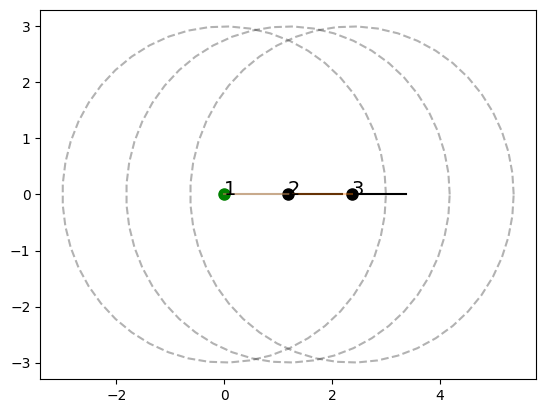
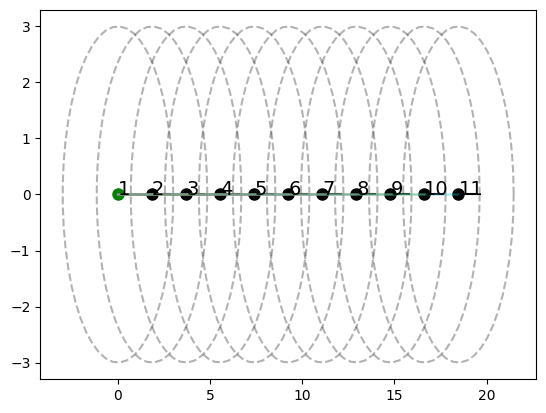
more proof writing

diff --git a/deployment/exploration_strategies/line_explore.py b/deployment/exploration_strategies/line_explore.py
@@ -13,10 +13,10 @@ class LineExploreKind(Enum):
       TWO_DIM_GLOBAL = 3,
 
 class LineExplore(ExplorationStrategy):
-  def __init__(self, K_o=1, force_threshold=0.01, RSSI_threshold=0.5, kind=LineExploreKind.ONE_DIM_GLOBAL):
+  def __init__(self, RSSI_threshold, K_o=1, force_threshold=0.01, kind=LineExploreKind.ONE_DIM_GLOBAL):
+    self.RSSI_threshold = RSSI_threshold
     self.K_o = K_o
     self.force_threshold = force_threshold
-    self.RSSI_threshold = RSSI_threshold
     self.kind = kind
 
   def prepare_exploration(self, target):
@@ -24,10 +24,10 @@ class LineExplore(ExplorationStrategy):
 
   def get_exploration_velocity(self, MIN, beacons, ENV):
     F, F_n, F_o = None, None, None
+    xi_is = np.array([MIN.get_xi_to_other_from_model(b) for b in beacons])
 
     if self.kind != LineExploreKind.TWO_DIM_GLOBAL:
       """ 1D """
-      xi_is = np.array([MIN.get_xi_to_other_from_model(b) for b in beacons])
       x_is = np.array([b.pos[0] for b in beacons])
       k_is, a_is = None, None
 
@@ -66,24 +66,40 @@ class LineExplore(ExplorationStrategy):
       elif self.kind == LineExploreKind.ONE_DIM_LOCAL:
         neigh_indices, = np.where(xi_is > self.RSSI_threshold)
         if len(neigh_indices) == 0:
-            print("STOPPED due to no neighs")
+            print(xi_is, self.RSSI_threshold)
+            print(f"{MIN.ID} STOPPED due to no neighs")
             raise AtLandingConditionException
         
         x_is = x_is[neigh_indices]
         xi_is = xi_is[neigh_indices]
 
+        m = np.argmax(x_is)
+
         k_is = np.ones(x_is.shape)
         a_is = 1.1*np.ones(x_is.shape)
 
-        m = np.argmax(x_is)
         a_is[m] = (1/k_is[m])*np.sum(k_is) + 1
-
 
 
         """ Leads to equally spaced drones """
         #k_is = np.zeros(x_is.shape)
         #k_is[j] = 2*1
         #a_is[j] = 1
+
+        """ Using qualitative info. about xi function vol. 1"""
+        a_is = np.ones(x_is.shape)
+        a_is[m] = 1.1
+        k_is = np.ones(x_is.shape)
+
+        delta_is = np.array([b.get_xi_max_decrease() for b in beacons[neigh_indices]])
+
+        k_is[m] = (1/(a_is[m]-1))*np.sum(np.delete(k_is*(1+a_is*delta_is), m)) + 0.1
+        
+        """ Using qualitative info. about xi function vol. 2"""
+        k_is = np.ones(x_is.shape)
+        a_is = np.ones(x_is.shape)
+
+        a_is[m] = (1/k_is[m])*np.sum(np.delete(k_is*(1+a_is*delta_is), m)) + 1
 
         assert (k_is[m]*a_is[m] > np.sum(k_is) or np.isclose(k_is[m]*a_is[m], np.sum(k_is))) and a_is[m] >= 0,\
           f"""
@@ -93,7 +109,7 @@ class LineExplore(ExplorationStrategy):
 
       F_n = -np.sum(k_is*(MIN.pos[0] - a_is*(x_is + xi_is)))
       F_o = 0*gof(self.K_o, MIN, ENV)[0]
-      F = np.array([F_n + F_o, 0])
+      F = self.__clamp(np.array([F_n + F_o, 0]), 10)
       
     else:
       """ 2D """
@@ -106,6 +122,7 @@ class LineExplore(ExplorationStrategy):
       F = F_n + F_o
           
     if np.linalg.norm(F) < self.force_threshold:
+      print(xi_is, self.RSSI_threshold)
       raise AtLandingConditionException
     return F
 

diff --git a/main.py b/main.py
@@ -49,7 +49,7 @@ if __name__ == "__main__":
 
   max_range = 3
 
-  N_mins = 2
+  N_mins = 10
   dt = 10e-4
 
   scs = SCS(max_range)
@@ -73,19 +73,20 @@ if __name__ == "__main__":
   """
   """ Line exploration """
 
-  RSSI_threshold = 4.9
-
   mins = [
     Min(
       max_range,
       DeploymentFSM(
         NoFollow(),
         LineExplore(
-          kind=LineExploreKind.ONE_DIM_LOCAL,
+          RSSI_threshold=0.5,
           K_o=0.01,
-          RSSI_threshold=RSSI_threshold
+          kind=LineExploreKind.ONE_DIM_LOCAL,
         )
-      )
+      ),
+      xi_max=3,
+      d_perf=1,
+      d_none=3
     ) for _ in range(N_mins)
   ]
 

diff --git a/beacons/beacon.py b/beacons/beacon.py
@@ -21,6 +21,7 @@ class Beacon():
     self._d_none = d_none
     self._omega = np.pi/(self._d_none - self._d_perf)
     self._phi = -np.pi*self._d_perf/(self._d_none - self._d_perf)
+    self._xi_max_decrease = (xi_max/2)*self._omega
   
   def insert_into_environment(self, env):
     self.pos = env.entrance_point
@@ -42,6 +43,9 @@ class Beacon():
     if d > self._d_none:
       return 0
     return (self._xi_max/2)*(1+np.cos(self._omega*d + self._phi))
+
+  def get_xi_max_decrease(self):
+    return self._xi_max_decrease
 
 
   def get_vec_to_other(self, other):

diff --git a/beacons/SCS/scs.py b/beacons/SCS/scs.py
@@ -3,6 +3,6 @@ from beacons.SCS.path_tree import PathTree
 
 class SCS(Beacon):
 
-    def __init__(self, range, xi_max=5, d_perf=1, d_none=3, pos=None,):
+    def __init__(self, range, xi_max=5, d_perf=1, d_none=3, pos=None):
         super().__init__(range, xi_max, d_perf, d_none, pos)
         self.path_tree = PathTree(self)

diff --git a/PDFs & notes/line_deploy_proof.md b/PDFs & notes/line_deploy_proof.md
@@ -131,7 +131,8 @@ In order for our statement to be true we must have:
 $$
 \begin{aligned}
   \kappa_{m}\alpha_{m}\gamma_{m} - \sum_{i\in\mathcal{N}(n+1)}\kappa_{i}\gamma_{i} \geq 0 & \iff \kappa_{m}\alpha_{m}\gamma_{m} - \kappa_{m}\gamma_{m} - \sum_{i\in\mathcal{N}(n+1)\setminus\{m\}}\kappa_{i}\gamma_{i} \geq 0\\
-  & \iff \kappa_{m}\gamma_{m}(\alpha_{m} - 1) - \sum_{i\in\mathcal{N}(n+1)\setminus\{m\}}\kappa_{i}\gamma_{i} \geq 0
+  & \iff \kappa_{m}\gamma_{m}(\alpha_{m} - 1) - \sum_{i\in\mathcal{N}(n+1)\setminus\{m\}}\kappa_{i}\gamma_{i} \geq 0\\
+  & \iff \kappa_{m}\gamma_{m}(\alpha_{m} - 1) \geq \sum_{i\in\mathcal{N}(n+1)\setminus\{m\}}\kappa_{i}\gamma_{i}
 \end{aligned}
 $$
 
@@ -146,12 +147,14 @@ $$
 \end{aligned}
 $$
 
-Choosing $\alpha_{m} > 1$ and substituting yields:
+Choosing $\alpha_{m} > 1$ and using the statements above we get:
 
 $$
-\begin{aligned}
-  \kappa_{m}\gamma_{m}(\alpha_{m} - 1) - \sum_{i\in\mathcal{N}(n+1)\setminus\{m\}}\kappa_{i}\gamma_{i} &\geq \kappa_{m}(\alpha_{m} - 1) - \sum_{i\in\mathcal{N}(n+1)\setminus\{m\}}\kappa_{i}(1 + \alpha_{i}\delta_{i}) \geq 0
-\end{aligned}
+\kappa_{m}\gamma_{m}(\alpha_{m} - 1) \geq \kappa_{m}(\alpha_{m} - 1),\quad \sum_{i\in\mathcal{N}(n+1)\setminus\{m\}}\kappa_{i}\gamma_{i} \leq \sum_{i\in\mathcal{N}(n+1)\setminus\{m\}}\kappa_{i}(1 + \alpha_{i}\delta_{i})
+$$
+
+$$
+\kappa_{m}(\alpha_{m} - 1) \geq \sum_{i\in\mathcal{N}(n+1)\setminus\{m\}}\kappa_{i}(1 + \alpha_{i}\delta_{i}) \implies \kappa_{m}\gamma_{m}(\alpha_{m} - 1) \geq \sum_{i\in\mathcal{N}(n+1)\setminus\{m\}}\kappa_{i}\gamma_{i}
 $$
 
 Thus we have:
@@ -159,7 +162,7 @@ Thus we have:
 $$
 \begin{aligned}
   x_{n+1} = x_{n+1}^{*} > \max_{i\in\mathcal{N}(n+1)}x_{i}^{*} = x_{m} & \iff x_{m}\Bigg(\kappa_{m}\alpha_{m}\gamma_{m} - \sum_{i\in\mathcal{N}(n+1)}\kappa_{i}\gamma_{i}\Bigg) + \sum_{i\in\mathcal{N}(n+1)\setminus\{m\}}\kappa_{i}\alpha_{i}x_{i}\gamma_{i} + \sum_{i\in\mathcal{N}(n+1)}\kappa_{i}\alpha_{i}\xi_{n+1, i}\gamma_{i} > 0\\
-  & \iff \exist \; i\in\mathcal{N}(n+1) \text{ s.t. } \kappa_{i}, \alpha_{i} > 0,\quad \alpha_{m} > 1,\quad \kappa_{m}(\alpha_{m} - 1) \geq \sum_{i\in\mathcal{N}(n+1)\setminus\{m\}}\kappa_{i}(1 + \alpha_{i}\delta_{i}) \geq 0
+  & \iff \exist \; i\in\mathcal{N}(n+1) \text{ s.t. } \kappa_{i}, \alpha_{i} > 0,\quad \alpha_{m} > 1,\quad \kappa_{m}(\alpha_{m} - 1) \geq \sum_{i\in\mathcal{N}(n+1)\setminus\{m\}}\kappa_{i}(1 + \alpha_{i}\delta_{i})
 \end{aligned}
 $$
 
@@ -169,12 +172,78 @@ $$
 Assuming we know $\delta_{i} \; \forall \; i\in\mathcal{N}(n+1)$ such that:
 
 $$
--\delta_{i} \leq \frac{\partial}{\partial d_{n+1, i}} f(d_{n+1, i}, \dots) \leq 0 \; \forall \; i\in\mathcal{N}(n+1)
+-\delta_{i} \leq \frac{\partial}{\partial d_{n+1, i}} f(d_{n+1, i}, \dots) \leq 0 \; \forall \; i\in\mathcal{N}(n+1),
 $$
 
-We can choose $\kappa_{i}$ and $\alpha_{i}$ such that:
+meaning we know a lower bound on the decay rate of the RSSI.
+
+Then, if we choose $\kappa_{i}$ and $\alpha_{i}$ such that:
 
 $$
-\exist \; i\in\mathcal{N}(n+1) \text{ s.t. } \kappa_{i}, \alpha_{i} > 0,\quad \alpha_{m} > 1,\quad \kappa_{m}(\alpha_{m} - 1) \geq \sum_{i\in\mathcal{N}(n+1)\setminus\{m\}}\kappa_{i}(1 + \alpha_{i}\delta_{i}) \geq 0,
+\exist \; i\in\mathcal{N}(n+1) \text{ s.t. } \kappa_{i}, \alpha_{i} > 0,\quad \alpha_{m} > 1,\quad \kappa_{m}(\alpha_{m} - 1) \geq \sum_{i\in\mathcal{N}(n+1)\setminus\{m\}}\kappa_{i}(1 + \alpha_{i}\delta_{i}),
 $$
-where $m = \argmax_{i\in\mathcal{N}(n+1)}x_{i}$. $\nu_{n+1}$ is then guaranteed to move beyond it's neighbors.
+where $m = \argmax_{i\in\mathcal{N}(n+1)}x_{i}$, the drone $\nu_{n+1}$ is guaranteed to move beyond it's neighbors.
+
+> ### Conditions for moving beyond neighbors
+> 1. $\kappa_{i} \geq 0$
+> 
+> 2. $\alpha_{i} \geq 0$
+> 
+> 3. $\exist \; i\in\mathcal{N}(n+1) \text{ s.t. } \kappa_{i}, \alpha_{i} > 0$
+>
+> $m = \argmax_{i\in\mathcal{N}(n+1)}x_{i}$
+>
+> 4. $\alpha_{m} > 1$
+>
+> 5. $\kappa_{m}(\alpha_{m} - 1) \geq \sum_{i\in\mathcal{N}(n+1)\setminus\{m\}}\kappa_{i}(1 + \alpha_{i}\delta_{i})$
+
+# Choosing gains
+Assuming we have a already deployed set of drones $\nu_{1}, \nu_{2} \dots \nu_{n}$ such that $x_{1} < x_{2} < \dots < x_{n}$.
+
+We know that for any neighbor set for drone $\nu_{n+1}$, $\mathcal{N}(n+1)$, it will be one the form:
+$$
+\mathcal{N}(n+1) = \{s, s+1, \dots s + |\mathcal{N}(n+1)| - 1\},
+$$
+
+where $1\leq s \leq n$. Furthermore we know that $m = \max \mathcal{N}(n+1) = s + |\mathcal{N}(n+1)| - 1$.
+
+Choosing $\alpha_{i} = 2 \; \forall \; i \in\mathcal{N}(n+1)$ satisfies conditions 2 and 4. We must then choose $\kappa_{i}$s such that conditions 1, 3 and 5 are satisfied. From condition 5 we have:
+
+$$
+\begin{aligned}
+\kappa_{m}(2 - 1) &\geq \sum_{i\in\mathcal{N}(n+1)\setminus\{m\}}\kappa_{i}(1 + 2\delta_{i}) = \sum_{i=s}^{s + |\mathcal{N}(n+1)| - 2}\kappa_{i}(1 + 2\delta_{i})\\
+\kappa_{s + |\mathcal{N}(n+1)| - 1} &\geq \sum_{i=s}^{s + |\mathcal{N}(n+1)| - 2}\kappa_{i}(1 + 2\delta_{i})
+\end{aligned}
+$$
+
+Assuming $\delta_{i} = \delta \; \forall \; 1 \leq i \leq n$ we get:
+
+$$
+\begin{aligned}
+\kappa_{s + |\mathcal{N}(n+1)| - 1} &\geq (1 + 2\delta)\sum_{i=s}^{s + |\mathcal{N}(n+1)| - 2}\kappa_{i}
+\end{aligned}
+$$
+
+Choosing $\tilde{\kappa}_{s + |\mathcal{N}(n+1)| - 1} = (1 + 2\delta)\kappa_{s + |\mathcal{N}(n+1)| - 1}$ we get:
+
+$$
+\begin{aligned}
+\tilde{\kappa}_{s + |\mathcal{N}(n+1)| - 1} &\geq \sum_{i=s}^{s + |\mathcal{N}(n+1)| - 2}\kappa_{i}
+\end{aligned}
+$$
+
+We want to find a function $g(\cdot): \mathbb{N}^{+} \rightarrow \mathbb{R}^{+}$ such that:
+
+$$
+g(t+1) \geq \sum_{i=s}^{t}g(i)
+$$
+
+A more restrictive function would be $g(\cdot)$ s.t.:
+
+$$
+g(t+1) \geq \sum_{i=0}^{t}g(i)
+$$
+
+> Suggestion: $g(i) = e^{i}$
+> 
+> $\kappa_{m} = \frac{1}{1 + 2\delta}e^{m}$, $\kappa_{i}$
